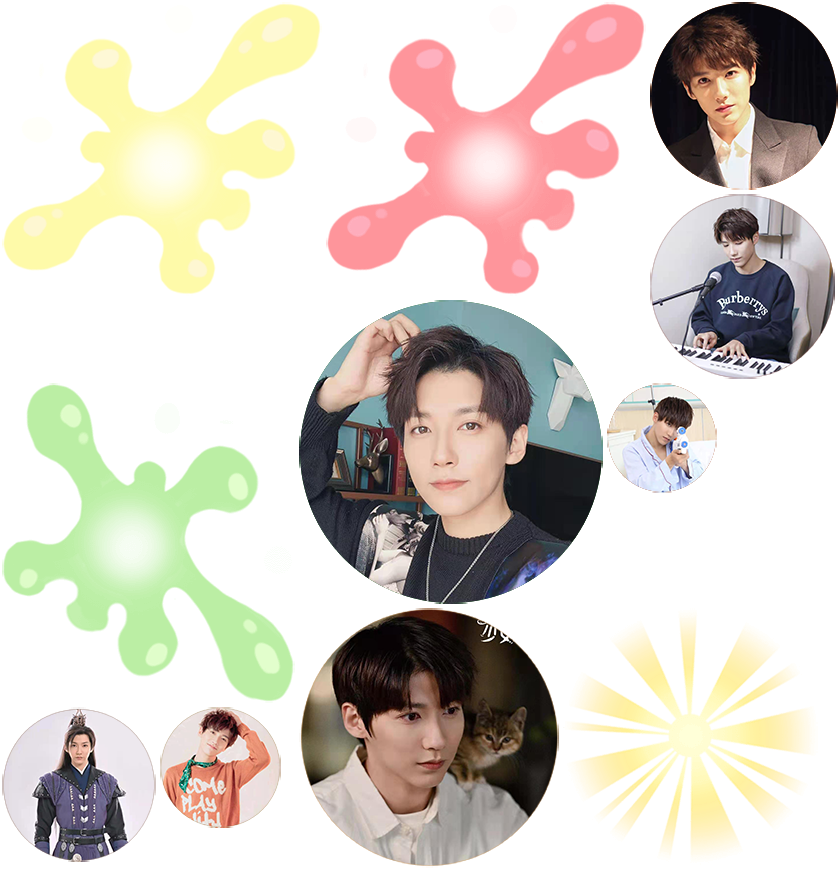
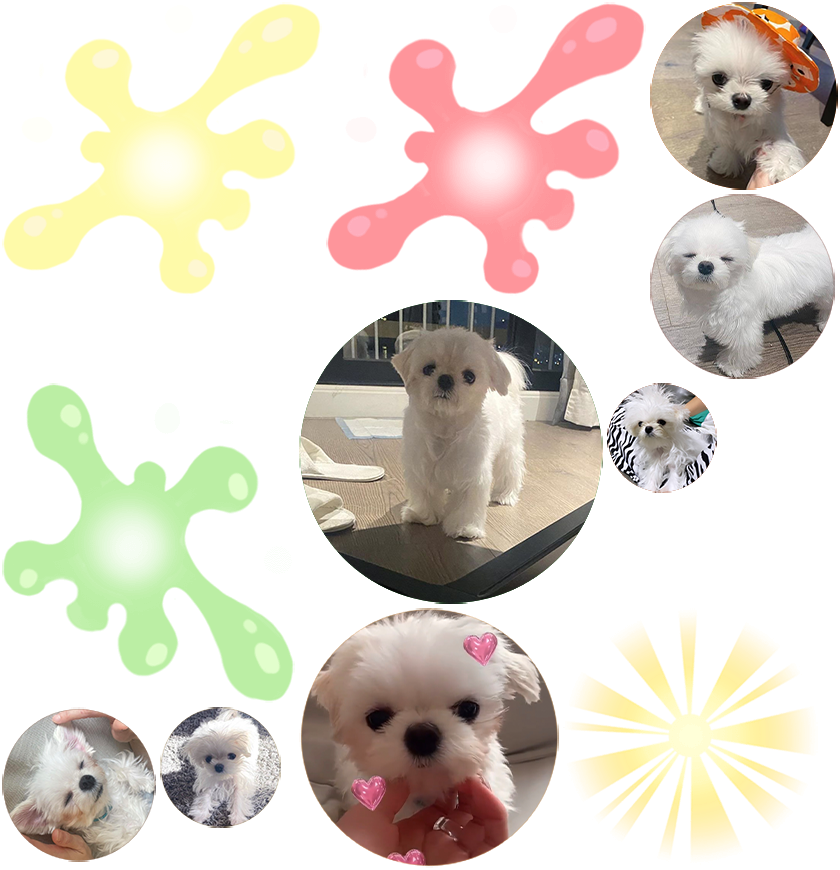
nitial commit

Changed region(s): [[0.0, 0.0, 1.0, 1.0]]

diff --git a/index.html b/index.html
@@ -4,7 +4,7 @@
 <head>
     <meta charset="utf-8">
 
-    <title>合成贾征宇</title>
+    <title>合成小公主</title>
 
     <!--http://www.html5rocks.com/en/mobile/mobifying/-->
     <meta name="viewport" content="width=device-width,user-scalable=no,initial-scale=1, minimum-scale=1,maximum-scale=1" />
@@ -109,7 +109,7 @@
             //        console.log("window.navigator.language",window.navigator.language);
 
             if (window.navigator.language == "zh-CN" || window.navigator.language == "zh-cn") {
-                document.title = "合成贾征宇";
+                document.title = "合成小公主";
             } 
 
 
